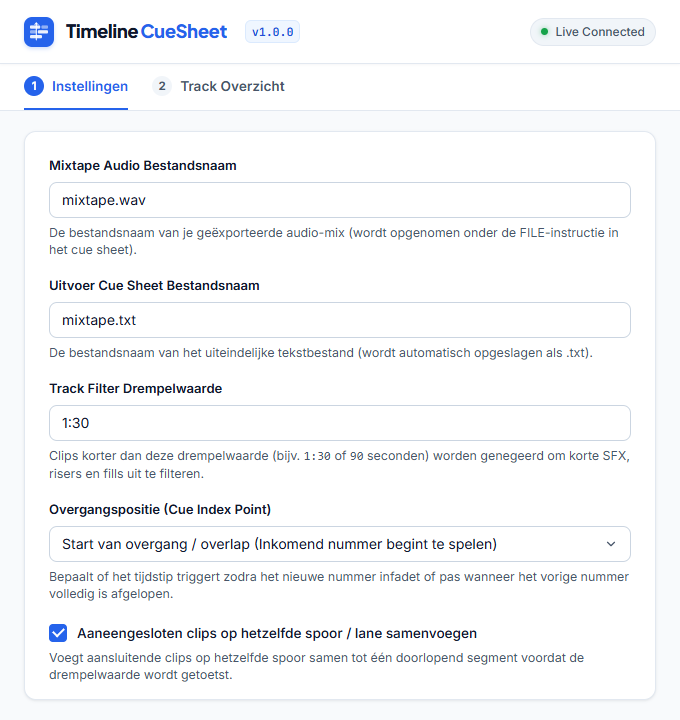
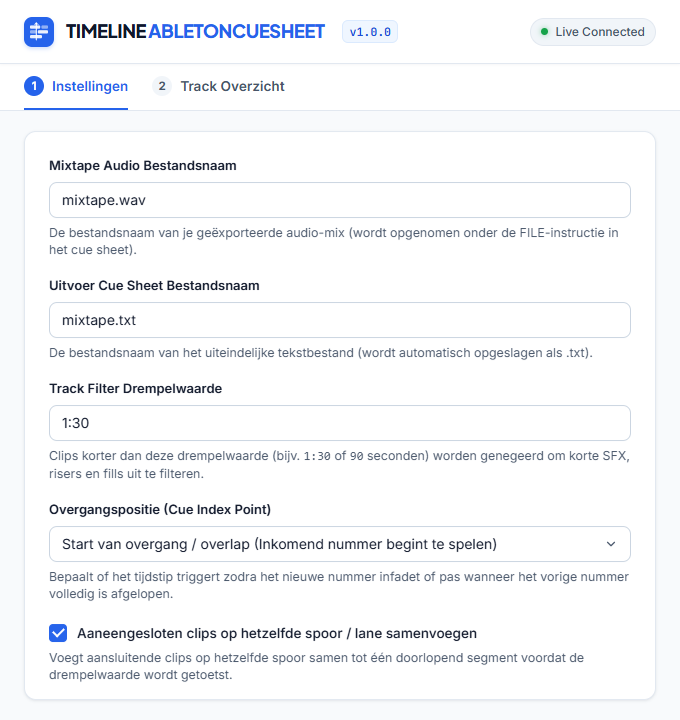
Update title to TIMELINE ABLETONCUESHEET and refresh screenshot and ablx

diff --git a/src/ableton-cuesheet/ui/interface.html b/src/ableton-cuesheet/ui/interface.html
@@ -3,7 +3,7 @@
 <head>
   <meta charset="UTF-8">
   <meta name="viewport" content="width=device-width, initial-scale=1.0">
-  <title>Timeline CueSheet</title>
+  <title>TIMELINE ABLETONCUESHEET</title>
   <!-- Zero-Setup CDN links van paulhordijk-coder/design-system -->
   <link rel="stylesheet" href="https://cdn.jsdelivr.net/gh/paulhordijk-coder/design-system@main/css/timeline-tokens.css">
   <link rel="stylesheet" href="https://cdn.jsdelivr.net/gh/paulhordijk-coder/design-system@main/css/timeline-components.css">
@@ -702,7 +702,7 @@
           <line x1="41" y1="23" x2="41" y2="76" stroke="#ffffff" stroke-width="3.5" stroke-linecap="round" />
         </svg>
         <div class="timeline-nav-title">
-          <span class="brand-prefix">Timeline</span><span class="brand-product">CueSheet</span>
+          <span class="brand-prefix">TIMELINE</span><span class="brand-product">ABLETONCUESHEET</span>
         </div>
         <span class="timeline-nav-version">v1.0.0</span>
       </div>

diff --git a/src/ableton-cuesheet/extension.ts b/src/ableton-cuesheet/extension.ts
@@ -62,6 +62,7 @@ export function activate(activation: ActivationContext) {
   };
 
   // Register the primary command and backwards-compatible aliases
+  context.commands.registerCommand("timeline-abletoncuesheet.showDialog", openCueSheetDialog);
   context.commands.registerCommand("timeline-cuesheet.showDialog", openCueSheetDialog);
   context.commands.registerCommand("ableton-cuesheet.showDialog", openCueSheetDialog);
   context.commands.registerCommand("mixtape-cuesheet.showDialog", openCueSheetDialog);
@@ -72,8 +73,8 @@ export function activate(activation: ActivationContext) {
   scopes.forEach((scope) => {
     context.ui.registerContextMenuAction(
       scope,
-      "Timeline CueSheet...",
-      "timeline-cuesheet.showDialog"
+      "Timeline AbletonCueSheet...",
+      "timeline-abletoncuesheet.showDialog"
     );
   });
 }

diff --git a/README.md b/README.md
@@ -1,6 +1,6 @@
-# Timeline CueSheet
+# Timeline AbletonCueSheet
 
-**Timeline CueSheet** is een professionele Ableton Live extensie gebouwd met de `@ableton-extensions/sdk`, ontworpen om direct vanuit je Ableton Live arrangement kant-en-klare cue sheets (`.cue` / `.txt`) te genereren voor mixtapes, podcasts en livesets.
+**Timeline AbletonCueSheet** is een professionele Ableton Live extensie gebouwd met de `@ableton-extensions/sdk`, ontworpen om direct vanuit je Ableton Live arrangement kant-en-klare cue sheets (`.cue` / `.txt`) te genereren voor mixtapes, podcasts en livesets.
 
 De interface volgt de rustige, zakelijke huisstijl van het [Timeline Studio Design System](https://github.com/paulhordijk-coder/design-system).
 
@@ -10,11 +10,11 @@ De interface volgt de rustige, zakelijke huisstijl van het [Timeline Studio Desi
 
 Dit project is ontwikkeld door **Antigravity** (Google DeepMind) in samenwerking met de gebruiker.
 
-### Wat Timeline CueSheet oplost:
+### Wat Timeline AbletonCueSheet oplost:
 Voorheen moesten DJ's en producers handmatig door hun arrangement navigeren om per overgang de precieze tijdcode (minuten, seconden, frames) op te schrijven voor een tracklist of CUE-bestand.
 
-**Timeline CueSheet**:
-1. Wordt direct geopend via het Ableton Live contextmenu op clips of tracks (**"Timeline CueSheet..."**).
+**Timeline AbletonCueSheet**:
+1. Wordt direct geopend via het Ableton Live contextmenu op clips of tracks (**"Timeline AbletonCueSheet..."**).
 2. Analyseert automatisch alle audio- en MIDI-clips uit het actieve arrangement.
 3. Filtert met slimme drempelwaarden korte risers, sweeps, fills en percussie-samples weg.
 4. Voegt aaneengesloten clips op hetzelfde spoor automatisch samen.
@@ -25,12 +25,12 @@ Voorheen moesten DJ's en producers handmatig door hun arrangement navigeren om p
 
 ## 🎨 Huisstijl & Design Tokens
 
-De gebruikersinterface van **Timeline CueSheet** implementeert het officiële [Timeline Studio Design System](https://github.com/paulhordijk-coder/design-system):
+De gebruikersinterface van **Timeline AbletonCueSheet** implementeert het officiële [Timeline Studio Design System](https://github.com/paulhordijk-coder/design-system):
 
 - **Achtergronden**: Rustige en zakelijke lichte achtergrond (`--timeline-bg-base: #f8fafc;`) met helderwitte paneelvlakken (`--timeline-bg-surface: #ffffff;`).
 - **Accentkleur**: Timeline Cobalt Blue (`--timeline-primary-500: #2563eb;`) voor actieve elementen, tabs en primaire actieknoppen.
 - **Typografie**: Inter voor interface-elementen, Plus Jakarta Sans voor titels, en JetBrains Mono met `tabular-nums` voor stabiele SMPTE timecodes.
-- **Header**: Uniforme Timeline Studio applicatiebalk inclusief officieel logo-mark, merknaam (`Timeline CueSheet`), versie-indicatie (`v1.0.0`) en realtime Live verbindingsstatus.
+- **Header**: Uniforme Timeline Studio applicatiebalk inclusief officieel logo-mark, merknaam (`TIMELINE ABLETONCUESHEET`), versie-indicatie (`v1.0.0`) en realtime Live verbindingsstatus.
 
 ---
 
